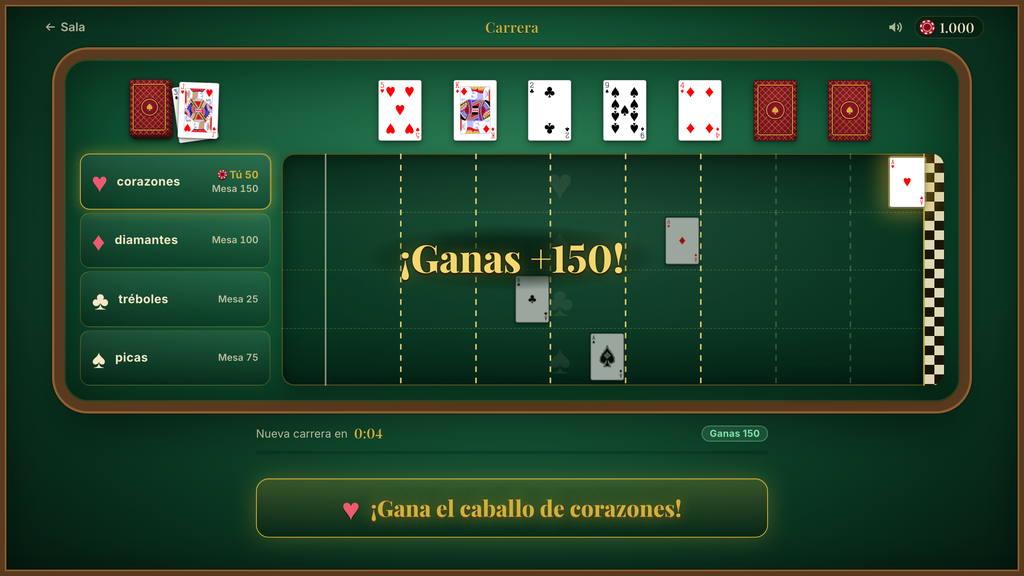
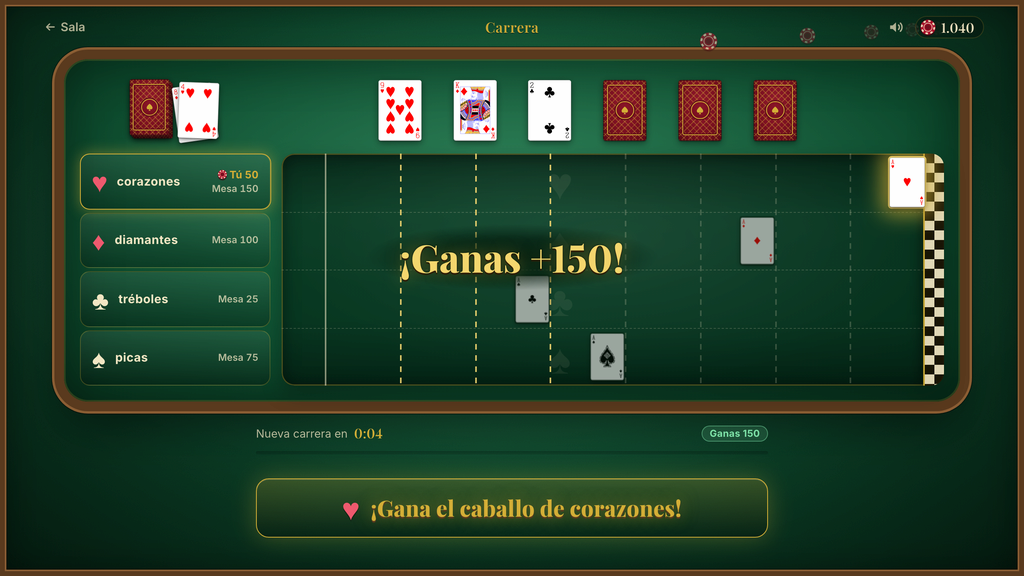
docs: el README y CLAUDE.md cuentan el blackjack completo y la carrera de seis tramos
Las capturas enseñan dos manos y, las de la carrera, los seis tramos. Los specs se alinean con lo construido y ESTADO.md cierra la
Tarea 10 y la revisión final.

diff --git a/README.md b/README.md
@@ -6,8 +6,8 @@ Una web para jugar a las cartas con amigos: **Blackjack** y una **carrera de cab
 
 <p align="center">
   <img src="docs/capturas/sala-movil.png" alt="La sala de una partida en el móvil: quién hay, las dos mesas y el ranking de esta noche" width="23%">
-  <img src="docs/capturas/blackjack-movil.png" alt="Mesa de blackjack en el móvil, a mitad de ronda" width="23%">
-  <img src="docs/capturas/carrera-movil.png" alt="Mesa de la carrera de caballos en el móvil, a mitad de carrera" width="23%">
+  <img src="docs/capturas/blackjack-movil.png" alt="Mesa de blackjack en el móvil: tus dos manos, la primera activa, con los botones Dividir y Rendirse" width="23%">
+  <img src="docs/capturas/carrera-movil.png" alt="Mesa de la carrera de caballos en el móvil, a mitad de carrera, con los seis tramos de la pista" width="23%">
   <img src="docs/capturas/carrera-ganador-movil.png" alt="El caballo de corazones gana la carrera y el jugador cobra" width="23%">
 </p>
 
@@ -15,25 +15,33 @@ Una web para jugar a las cartas con amigos: **Blackjack** y una **carrera de cab
 
 1. **Entra** con un apodo y un PIN de 4 cifras. Si el apodo no existe, la web pregunta «¿Crear el perfil?» y, al aceptar, te da **1.000 fichas**.
 2. **Crea una partida** (te da un código de 4 caracteres, un QR y un enlace) o **únete** con el de un amigo.
-3. En la **sala** ves quién está conectado, qué hay en cada mesa y quién va ganando esta noche. Entra en la mesa que quieras y vuelve cuando quieras: la conexión con la sala se mantiene abierta mientras juegas (cada mesa abre además la suya). Ojo: salir de una mesa a propósito con una apuesta en juego la pierde.
-4. **Blackjack.** Seis barajas, hasta 6 jugadores. Apuestas durante 15 s (desde 10 fichas y sin tope: con «Todo» te lo juegas todo), cada uno recibe dos cartas y decides en 15 s: *Pedir*, *Plantarse* o *Doblar*. La banca pide hasta 17 y se planta en cualquier 17 o más. Ganar paga 1:1, blackjack natural 3:2 y un empate devuelve la apuesta.
-5. **Carrera de caballos.** Los cuatro ases son los caballos. Apuesta durante 20 s a uno o a varios (desde 10 fichas, sin tope por caballo, hasta 12 jugadores). Se levanta una carta cada 800 ms y avanza el caballo de su palo; cuando todos pasan un tramo de la pista se gira su carta y el caballo de ese palo retrocede. Gana el primero que llega a la meta y paga ×4 (apuesta incluida).
+3. En la **sala** ves quién está conectado, qué hay en cada mesa y quién va ganando esta noche. Entra en la mesa que quieras y vuelve cuando quieras: la conexión con la sala se mantiene abierta mientras juegas (cada mesa abre además la suya). Ojo: salir de una mesa a propósito con una apuesta en juego la pierde; en el blackjack, cuando se cierran las decisiones la ronda ya está decidida y cobras lo que te toque aunque te vayas.
+4. **Blackjack.** Seis barajas, hasta 6 jugadores y 7 casillas de apuesta. Apuestas durante 15 s (desde 10 fichas y sin tope: con «Todo» te lo juegas todo) y, si quedan casillas libres, puedes abrir una **segunda mano** con su propia apuesta. Cada mano recibe dos cartas y la ronda sigue así:
+   - **Seguro.** Si la banca enseña un as, tienes 10 s para asegurarte por la mitad de lo apostado. Si la banca tiene blackjack, el seguro paga 2:1.
+   - **La banca mira su carta** si enseña un as o una carta que vale 10. Con blackjack se acaba la ronda: tus blackjacks empatan y las demás manos pierden.
+   - **Decisiones.** Todos a la vez, en 15 s: *Pedir*, *Plantarse*, *Doblar*, *Dividir* o *Rendirse*. Si tienes varias manos, se juegan por orden.
+   - **Dividir.** Dos cartas del mismo valor (10, J, Q y K valen 10) se separan en dos manos por otra apuesta igual, y la ventana se alarga 10 s. Cada jugador llega como mucho a 4 manos; con dos casillas, cada una se divide una vez. Los ases se dividen una sola vez, reciben una carta cada uno y se plantan solos.
+   - **Rendirse.** Como primera decisión de una mano sin dividir: recuperas la mitad de la apuesta.
+   - **Banca y pagos.** La banca pide hasta 17 y se planta en cualquier 17 o más. Ganar paga 1:1, blackjack natural 3:2 (un 21 tras dividir paga 1:1) y un empate devuelve la apuesta.
+5. **Carrera de caballos.** Los cuatro ases son los caballos. Apuesta durante 20 s a uno o a varios (desde 10 fichas, sin tope por caballo, hasta 12 jugadores). Cada 800 ms sale una carta del mazo, se gira en el centro de la pista y avanza el caballo de su palo. La pista tiene 6 tramos con una carta boca abajo: cuando todos los caballos pasan un tramo se gira su carta y el caballo de ese palo retrocede. Gana el primero que llega a la meta y paga ×4 (apuesta incluida).
 6. Si te quedas **sin fichas**, el perfil te ofrece un **rescate** de 200 (cuenta como una quiebra en tus estadísticas).
 
 ## Características
 
-- **Dos juegos** con reglas completas, temporizadores y reconexión: si se corta la conexión o cierras la pestaña a mitad de ronda, al volver (dentro de esa misma ronda) sigues en tu mesa con tu mano. En blackjack, mientras estás desconectado tu mano se planta sola, y quien sigue desconectado cuando acaba la ronda deja la mesa.
+- **Dos juegos** con reglas completas, temporizadores y reconexión: si se corta la conexión o cierras la pestaña a mitad de ronda, al volver (dentro de esa misma ronda) sigues en tu mesa con tu mano. En blackjack, mientras estás desconectado tus manos se plantan solas (y, si se corta durante el seguro, no lo coges), y quien sigue desconectado cuando acaba la ronda deja la mesa.
+- **Blackjack de casino**: hasta dos casillas por jugador y cuatro manos dividiendo, seguro, la banca que mira su carta, doblar, dividir y rendirse. Tus manos se encogen para caber en fila también en un móvil de 360 px.
+- **Carrera de seis tramos**: la carta de cada paso se ve salir del mazo y girarse en el centro de la pista antes de que avance el caballo.
 - **Partidas con código, QR y enlace**; la sala se cierra sola tras 30 minutos sin nadie.
 - **Fichas globales**: cada jugador tiene su propio saldo, el mismo en todas las partidas y mesas.
 - **Ranking global** (fichas, ganancias, % de victorias, mayor premio, mejor racha y quiebras) y **ranking de cada noche**, además de un perfil con estadísticas por juego.
-- **Animaciones cuidadas** con Motion: reparto desde el mazo, cartas que se giran en 3D, caballos con estela, fichas que vuelan de la bandeja a tu casilla del tapete (donde tu apuesta se apila y se ve en grande) y del premio al contador. Los movimientos solo usan `transform` y `opacity` (las transiciones de color de botones y pestañas son aparte) y, con `prefers-reduced-motion`, pasan a fundidos.
+- **Animaciones cuidadas** con Motion: reparto desde el mazo, cartas que se giran en 3D, la carta que se desliza a su mano nueva al dividir, la banca que levanta un poco su carta para mirarla, caballos con estela, fichas que vuelan de la bandeja a tu casilla del tapete (donde tu apuesta se apila y se ve en grande) y del premio al contador. Los movimientos solo usan `transform` y `opacity` (las transiciones de color de botones y pestañas son aparte) y, con `prefers-reduced-motion`, pasan a fundidos.
 - **Sonido sintetizado** (cartas, fichas, victoria) con silencio recordado, y vibración corta al ganar donde el navegador la permita.
 - **Hecha para el móvil**: botones de al menos 44 px, tu mano grande abajo, y en un móvil tumbado las mesas piden girarlo en vez de ofrecer un tapete que obligue a desplazarse. En el ordenador, la mesa completa con los asientos en semicírculo.
 - **Coste 0 €**: solo el plan gratuito de Cloudflare, sin tarjeta.
 
 <p align="center">
   <img src="docs/capturas/sala-escritorio.png" alt="La sala en el ordenador: jugadores conectados, mesas y ranking de esta noche" width="31%">
-  <img src="docs/capturas/blackjack-escritorio.png" alt="Mesa de blackjack en el ordenador: cuatro jugadores en semicírculo frente a la banca" width="66%">
+  <img src="docs/capturas/blackjack-escritorio.png" alt="Mesa de blackjack en el ordenador: tus dos manos frente a la banca, con Ana, Leo y Marta en semicírculo" width="66%">
 </p>
 
 <p align="center">
@@ -41,10 +49,10 @@ Una web para jugar a las cartas con amigos: **Blackjack** y una **carrera de cab
   <img src="docs/capturas/carrera-ganador-escritorio.png" alt="Mesa de la carrera en el ordenador: gana el caballo de corazones y se cobra" width="48%">
 </p>
 
-Un paso de la carrera, fotograma a fotograma: sale un 8 de picas (el caballo avanza dejando estela), todos han pasado el tramo 2 y se gira su carta, un 7 de diamantes, así que el caballo de diamantes retrocede.
+Un paso de la carrera, fotograma a fotograma: sale un 8 de picas y se gira en el centro de la pista, su caballo avanza dejando estela, todos han pasado ya el tramo 2 y se gira su carta, un 7 de diamantes, así que el caballo de diamantes retrocede.
 
 <p align="center">
-  <img src="docs/capturas/carrera-paso.png" alt="Cuatro fotogramas de un paso de la carrera: avance de picas, giro del tramo y retroceso de diamantes" width="100%">
+  <img src="docs/capturas/carrera-paso.png" alt="Cuatro fotogramas de un paso de la carrera: la carta en el centro, avance de picas, giro del tramo y retroceso de diamantes" width="100%">
 </p>
 
 ## Arquitectura
@@ -87,8 +95,8 @@ flowchart TB
 
 - **El servidor manda, y cada jugador recibe su propia vista.** Las mesas guardan el estado verdadero y lo proyectan para cada conexión con `vista(estado, jugador)`: la baraja y la carta tapada de la banca no salen nunca del servidor. El cliente solo envía intenciones (`apostar`, `pedir`, `plantarse`…) y nunca decide un resultado. Además de la vista, cada mensaje trae los **eventos** ocurridos (`carta_repartida`, `caballo_avanza`, `pago`…) para que la pantalla los anime en orden y luego se asiente en la vista.
 - **Reglas puras y compartidas.** Blackjack y carrera son funciones `(estado, acción) → estado` en `src/shared/juegos`, sin red, sin reloj y sin azar propio: el tiempo y el generador entran como parámetros (el barajado usa siempre `crypto.getRandomValues`). Se prueban con Vitest en milisegundos y una clase base, `Mesa`, las conecta con PartyServer. Añadir un juego es escribir un archivo de reglas, una clase pequeña y su pantalla.
-- **Fichas en dos fases e idempotentes.** Antes de cobrar una apuesta la mesa guarda su intención; luego pide el cobro a `Jugadores` con una clave de idempotencia, y la intención se borra en la misma escritura que guarda la jugada. Un cobro que queda a medias (la instancia cayó, `Jugadores` no contestó) se anula con su clave, y cada ronda se liquida una sola vez por su identificador. Resultado: las fichas siempre cuadran, aunque las alarmas lleguen tarde o los mensajes se repitan.
-- **Pensada para los límites del plan gratuito.** Durable Objects con SQLite, WebSockets con hibernación y temporizadores con **alarmas** del objeto (nada de `setInterval`), de modo que una mesa vacía no consume. Cada cambio de una mesa es una sola escritura, la alarma solo se reprograma si cambia su hora y la sala solo se entera de lo que enseña. La carrera se sortea entera al cerrarse las apuestas: sus pasos los anuncia un temporizador en memoria, sin escribir nada, y la única alarma es la de la meta. Las fichas se leen de una sola fila, y el perfil y los rankings leen una fila por jugador, no el historial. Una mesa sin apuestas deja de programar alarmas tras tres ventanas, la sala se cierra a los 30 minutos sin conexiones, cada conexión tiene un tope de 20 mensajes por segundo (más de 60 y se cierra con el código 4008), el registro admite 3 perfiles cada 10 minutos por IP (60 por hora en total) y cada jugador crea como mucho 5 partidas por hora. Si una mesa no puede guardar una jugada, se lo dice al jugador en vez de quedarse congelada, y si el fallo se repite pasa a «La Timba está descansando, vuelve mañana».
+- **Fichas en dos fases e idempotentes.** Antes de cobrar una apuesta la mesa guarda su intención; luego pide el cobro a `Jugadores` con una clave de idempotencia, y la intención se borra en la misma escritura que guarda la jugada. Un cobro que queda a medias (la instancia cayó, `Jugadores` no contestó) se anula con su clave, y cada ronda se liquida una sola vez por su identificador, con una fila por jugador. Los cobros extra del blackjack (segunda casilla, doblar, dividir y seguro) siguen ese mismo camino. Resultado: las fichas siempre cuadran, aunque las alarmas lleguen tarde o los mensajes se repitan.
+- **Pensada para los límites del plan gratuito.** Durable Objects con SQLite, WebSockets con hibernación y temporizadores con **alarmas** del objeto (nada de `setInterval`), de modo que una mesa vacía no consume. Cada cambio de una mesa es una sola escritura, la alarma solo se reprograma si cambia su hora y la sala solo se entera de lo que enseña. La carrera se sortea entera al cerrarse las apuestas: sus pasos los anuncia un temporizador en memoria, sin escribir nada, y la única alarma es la de la meta. En el blackjack, la banca juega al cerrarse las decisiones y la ronda se liquida en esa misma escritura: lo que se ve después (la banca, el resultado y la ronda siguiente) también sale de la memoria. La sala guarda los resúmenes de las mesas solo en memoria y solo escribe cuando cambia el ranking. Las fichas se leen de una sola fila, y el perfil y los rankings leen una fila por jugador, no el historial. Una mesa sin apuestas deja de programar alarmas tras tres ventanas, la sala se cierra a los 30 minutos sin conexiones, cada conexión tiene un tope de 20 mensajes por segundo (más de 60 y se cierra con el código 4008), tras un `sin_fichas` las jugadas de pago de ese jugador se rechazan 2 s sin escribir nada, el registro admite 3 perfiles cada 10 minutos por IP (60 por hora en total) y cada jugador crea como mucho 5 partidas por hora. Si una mesa no puede guardar una jugada, se lo dice al jugador en vez de quedarse congelada, y si el fallo se repite pasa a «La Timba está descansando, vuelve mañana».
 - **PBKDF2 con 10.000 iteraciones.** El PIN se guarda con PBKDF2-SHA256 y sal de 16 bytes. Con 100.000 iteraciones una sola invocación supera los 10 ms de CPU del plan gratuito (error 1102), así que se usan 10.000 y se compensa por otro lado: 5 fallos bloquean el apodo 15 minutos. La sesión es un token HMAC-SHA256 firmado con `TOKEN_SECRET` que caduca a los 30 días.
 - **Fluidez medida.** Los movimientos solo usan `transform` y `opacity`. Se perfilaron carreras simuladas completas con la CPU a un cuarto de velocidad (CDP y `PerformanceObserver`, cada pasada con un servidor recién arrancado): en las últimas 11 no apareció ninguna tarea larga; antes solo hubo alguna suelta (la última, de 77 ms, justo al salir el cartel del ganador), lo que llevó a pedir su tipografía al abrir la mesa y no al ganar. A un sexto de velocidad sí se vieron cuadros de 51–64 ms al llegar el ganador. Los e2e comprueban además que con movimiento reducido las cartas aparecen ya en su sitio y que la mesa no se mueve bajo la mano.
 
@@ -142,7 +150,7 @@ La segunda línea genera un secreto fuerte y lo guarda directamente, sin copiar 
 
 `npm run deploy` construye el cliente y el Worker (`vite build`) y los sube con `wrangler deploy`. La configuración está en [`wrangler.jsonc`](wrangler.jsonc): los cuatro Durable Objects con su migración `new_sqlite_classes` y la web como recursos estáticos con *fallback* de aplicación de una sola página, de modo que `/p/KXP4` abre la partida también al recargar. La URL queda como `https://la-timba.<tu-cuenta>.workers.dev`.
 
-Lo que gasta una noche típica (8 jugadores durante 3 horas: unas 330 rondas de blackjack y 240 carreras) se mide en [`test/server/presupuesto.test.ts`](test/server/presupuesto.test.ts), que juega rondas de verdad contra los Durable Objects y cuenta lo que factura Cloudflare. Extrapolado a la noche: unas 27.300 filas escritas (27 % del límite diario gratuito de 100.000), 14.600 peticiones a Durable Objects (15 %), 7.300 peticiones al Worker (7 %) y 23.000 filas leídas (0,5 % de 5 millones), por debajo del objetivo de no pasar del 30 % de ningún límite. Dicho en horas: lo que se agota antes son las filas escritas, y caben unas **11 horas de juego al día con 8 jugadores** (4 en cada mesa). La mayoría de esas escrituras son del libro de fichas (cinco por apuesta: la intención y la jugada en la mesa, el cobro, las fichas y su liquidación). Es una estimación: lo que cuenta es el panel de Cloudflare después de una noche real.
+Lo que gasta una noche típica (8 jugadores durante 3 horas: unas 330 rondas de blackjack y 240 carreras) se mide en [`test/server/presupuesto.test.ts`](test/server/presupuesto.test.ts), que juega rondas de verdad contra los Durable Objects y cuenta lo que factura Cloudflare. La medida es pesimista: una de cada tres rondas de blackjack lleva dos casillas, seguro y división. Extrapolado a la noche: unas 27.200 filas escritas (27 % del límite diario gratuito de 100.000), 14.700 peticiones a Durable Objects (15 %), 7.700 peticiones al Worker (8 %) y 22.000 filas leídas (0,4 % de 5 millones), por debajo del objetivo de no pasar del 30 % de ningún límite. Dicho en horas: lo que se agota antes son las filas escritas, y caben unas **11 horas de juego al día con 8 jugadores** (4 en cada mesa). Algo más de la mitad de esas escrituras son del libro de fichas: cada apuesta cuesta cinco (la intención y la jugada en la mesa, el cobro, las fichas y su liquidación). Es una estimación: lo que cuenta es el panel de Cloudflare después de una noche real.
 
 ## Estructura
 

diff --git a/CLAUDE.md b/CLAUDE.md
@@ -11,6 +11,8 @@ La Timba es una web gratuita para jugar a las cartas con amigos. Alguien crea un
 - **Documentos:**
   - Spec (manda sobre el plan y sobre el código): `docs/superpowers/specs/2026-10-17-la-timba-design.md`
   - Plan original: `docs/superpowers/plans/2026-10-17-la-timba.md`
+  - Spec del blackjack completo y de la carrera de seis tramos (amplía el anterior y, si chocan, manda): `docs/superpowers/specs/2026-10-29-blackjack-completo-design.md`, con su plan en `docs/superpowers/plans/2026-10-29-blackjack-completo.md`
+  - Estado del desarrollo (qué queda y qué viene después): `docs/ESTADO.md`
   - README de portfolio: `README.md`
 
 ## Comandos
@@ -71,7 +73,15 @@ npm run deploy                   # build + wrangler deploy (lo hace el usuario)
 - El tiempo y el azar entran como parámetros.
 - `vista(estado, jugador, ahora)` es lo único que sale del servidor. Nunca incluye información oculta: la baraja, la carta tapada de la banca o los pasos futuros de la carrera.
 - La carrera se sortea entera al cerrar las apuestas. Sus pasos los anuncia un temporizador en memoria (`proximoAviso`/`eventosEntre`), sin escrituras.
+- La carrera tiene 6 tramos (`CARRERA.TRAMOS`), en las líneas 1 a 6. La línea 7 se dibuja sin carta: un tramo se gira cuando todos lo han pasado y llegar a la casilla 8 termina la carrera, así que un séptimo casi nunca podría girarse.
 - En el blackjack, la banca juega al cerrarse las decisiones y la ronda queda liquidada en esa escritura (fase `resultado`). La vista enseña la banca durante `BANCA_MS`, después el resultado y, al acabar, la ronda siguiente, todo desde memoria. En la banca, `resumen` devuelve `null` y la sala no se entera.
+- **Casillas y manos del blackjack:**
+  - Hay `BJ.CASILLAS` (7) casillas para `BJ.MAX_JUGADORES` (6) jugadores. Cada jugador ocupa una y puede pedir una segunda (`{ t: "apostar", segunda: true }`); si no queda ninguna, `sin_casilla`. Una mano abandonada ocupa su casilla hasta el fin de la ronda.
+  - `manos` es una lista plana con `casilla` e `indice`, en ese orden. Cada jugador llega como mucho a `BJ.MAX_MANOS_JUGADOR` (4) contando las divisiones.
+  - `pedir`, `plantarse`, `doblar`, `dividir` y `rendirse` actúan sobre `manoActiva(e, jugadorId)`, la primera que sigue jugando.
+  - La liquidación es de una fila por jugador: `apuesta` y `pago` suman sus manos y su seguro.
+  - `opciones` (de `opcionesDe`) dice a quien recibe la vista qué le permiten las reglas, y el cliente no las repite. El reductor no conoce las fichas: la pantalla oculta lo que no te llega y `Jugadores` lo rechaza con `sin_fichas`. `opciones.seguro` es el coste (`null` si no toca), no un booleano.
+  - El ritmo del reparto y de la mirada de la banca (`BJ.ESCALONADO_MS`, `BJ.VUELO_MS`, `BJ.MIRA_MS`) vive en las reglas y el cliente lo lee de ahí, porque el servidor retrasa la banca lo que la pantalla tarda en enseñarlo (`esperaDeLaMirada`). Si cambias esos tiempos, cambian los dos lados.
 
 ### Cliente (`src/client/`)
 
@@ -82,8 +92,14 @@ npm run deploy                   # build + wrangler deploy (lo hace el usuario)
   - `useMesa` y `usePartida`: los sockets con partysocket. Cada mensaje trae `ahora` del servidor y `reloj.ts` corrige el desfase para las cuentas atrás.
   - `useEnvioUnico`: evita el doble envío, atado a la respuesta a *tu* acción.
 - **Pantallas de mesa:** convierten «vista + eventos» en un guion animado. Siempre acaban en la última vista, y al reconectar saltan a ella sin animar ni sonar.
-  - Blackjack: `pantallas/blackjack/guion.ts` y `useGuion` (repartos desde el `Mazo`).
-  - Carrera: `pantallas/carrera/escena.ts` (`planDeLote`, puro), `cola.ts` (una cola ordenada con un solo temporizador) y `useEscena`.
+  - Blackjack (en `pantallas/blackjack/`):
+    - `guion.ts` y `useGuion`: repartos desde el `Mazo`, la mirada de la banca y las divisiones. Cada carta se identifica con `claveCarta(ronda, de, mano, indice)`.
+    - `manos.ts` (puro): la mano activa, el tamaño de las cartas para que tus manos quepan en fila, su sitio en el arco del ordenador y la agrupación de los demás jugadores.
+    - `asientos.tsx`: tus manos (`MisManos`), los asientos de los demás en el ordenador (`AsientoOtro`) y sus pastillas en el móvil (`PastillaOtro`).
+    - `useDeslizar.ts`: al dividir, las cartas se deslizan a su sitio nuevo sin desaparecer en ningún fotograma.
+    - `useEspacio.ts`: mide el hueco real entre los vecinos. Si tus manos no caben ahí, se colocan al fondo del tapete.
+    - `controles.tsx`: los paneles `Apostar`, `Decidir` y `PanelSeguro`, y `textoEstado`.
+  - Carrera: `pantallas/carrera/escena.ts` (`planDeLote`, puro; la carta de cada paso sale `REVELADO_MS` antes de que avance el caballo), `cola.ts` (una cola ordenada con un solo temporizador) y `useEscena`.
 - **Piezas de mesa compartidas** en `componentes/` y `efectos/`:
   - `FichasApuesta` (bandeja con «Todo») y `CasillaApuesta` (la pila en el tapete);
   - `CartelPremio`, `EstadoMesa`, `AvisoMesa`, `FichasVolando`, `BarraMesa` y `SinMesa`;
@@ -106,7 +122,7 @@ npm run deploy                   # build + wrangler deploy (lo hace el usuario)
   - Las lecturas de fichas, perfil y ranking son de coste constante, no recorren el historial.
 - **El libro de fichas tiene que cuadrar siempre**, también con reconexiones, desalojos, reintentos de alarmas y varias pestañas. No muevas fichas fuera de `Jugadores` ni te saltes el cobro en dos fases.
 - **El servidor manda:** el cliente solo envía intenciones. La reconexión a mitad de una ronda tiene que funcionar.
-- **Apuestas:** sin tope; desde 10 fichas hasta todas las tuyas.
+- **Apuestas:** sin tope; desde 10 fichas hasta todas las tuyas. En el blackjack, cada casilla lleva su apuesta, y la segunda casilla, doblar, dividir y el seguro se cobran cada uno con su cobro en dos fases.
 
 ## E2E: mesas simuladas
 

diff --git a/docs/ESTADO.md b/docs/ESTADO.md
@@ -20,8 +20,9 @@ Notas para retomar el trabajo en local. Última actualización: 30/10/2026.
 | 7 | Pantalla: apostar con dos manos | hecha y revisada |
 | 8 | Pantalla: varias manos, dividir y rendirse | hecha y revisada |
 | 9 | Pantalla: seguro y la banca mira | hecha y revisada |
-| 10 | README, CLAUDE.md y capturas | **pendiente** |
-| — | Revisión final de toda la rama y PR a `main` | **pendiente** |
+| 10 | README, CLAUDE.md y capturas | hecha |
+| — | Revisión final de toda la rama | hecha |
+| — | PR a `main` | **pendiente** |
 
 ## Cómo seguir en local
 
@@ -39,13 +40,9 @@ npm run e2e                           # sin otro `npm run dev` abierto
 
 ## Lo que falta del plan
 
-1. **Tarea 10** (ver el plan), y además:
-   - el spec viejo (2026-10-17) dice «Pista: 7 tramos» y ahora son 6;
-   - en el spec nuevo §5.1, «+ Segunda mano» aparece antes de apostar solo si hay **2 o más** casillas libres (ver decisiones);
-   - `CLAUDE.md` debe mencionar `manos.ts`, `useDeslizar.ts`, `asientos.tsx`, `claveCarta(ronda, de, mano, indice)` y las constantes de tiempo compartidas en `BJ`;
-   - capturas nuevas para el README.
-2. **Revisión final de toda la rama** (`main..feat/la-timba-v1-830fa7`), que decide cuáles de los detalles menores de abajo hay que arreglar antes de fusionar.
-3. Abrir el PR a `main`.
+Abrir el PR a `main`. La revisión final no encontró nada que impida fusionar: se leyeron enteros los cambios de reglas y servidor, y el guion y la mesa de blackjack en el cliente, con los cinco puntos de «Review Focus» del plan. La hizo la misma sesión que cerró la Tarea 10, así que una revisión independiente aún podría encontrar algo.
+
+Con el código de la rama, en un Mac: tipos correctos, 689 tests y 296 e2e en verde (20 se saltan por ser solo de un dispositivo).
 
 ## Decisiones que tomé por mi cuenta (revísalas)
 
@@ -65,7 +62,14 @@ Decisiones tuyas en esta sesión:
 - El objetivo de presupuesto sigue en el 30 %, sin más optimizaciones.
 - Tras un `sin_fichas`, la mesa rechaza en memoria durante 2 s las jugadas de pago de ese jugador. Así se evita que un cliente trucado agote las escrituras del día. *Coste: un jugador real con el saldo desfasado puede ver «No tienes fichas» otra vez durante esos 2 s.*
 
-## Detalles menores apuntados para la revisión final
+Decisiones de la Tarea 10, ya en local:
+
+- También se rehicieron las capturas de la carrera, aunque el plan solo pedía las del blackjack: aún enseñaban 7 tramos.
+- El spec nuevo se alineó con lo construido donde las decisiones de arriba lo cambiaban: sin campo `rendida`, `opciones.seguro` es el coste, la pantalla comprueba las fichas y «+ Segunda mano» pide 2 casillas libres.
+
+## Detalles menores que la revisión final deja para después
+
+Ninguno bloquea la fusión.
 
 **Reglas y servidor**
 
@@ -105,7 +109,7 @@ Decisiones tuyas en esta sesión:
   - estaría bien avisar «Te desconectaste: sin seguro» al reconectar;
   - los botones de decisión están activos durante la mirada de 0,7 s;
   - una anotación del e2e de 3 navegadores es engañosa;
-  - `useEnvioUnico` se queda esperando si llega el mismo error dos veces en menos de `ERROR_MS` (ya pasaba antes).
+  - `useEnvioUnico` solo se quedaría esperando si llegaran dos errores iguales a un mismo envío: un segundo toque no lo bloquea, porque `enviar` limpia el error (se comprobó con tres `sin_fichas` seguidos).
 - Carrera:
   - `PASO_COMPRIMIDO_MS` está sin uso;
   - un título de e2e es exagerado;

diff --git a/docs/superpowers/specs/2026-10-29-blackjack-completo-design.md b/docs/superpowers/specs/2026-10-29-blackjack-completo-design.md
@@ -86,8 +86,7 @@ Fuera de alcance: el póker y la Bomba (cada uno tendrá su propio diseño), las
   - `casilla: number` (0–6);
   - `indice: number` (orden dentro del jugador);
   - `dividida: boolean`;
-  - `rendida: boolean`;
-  - `estado` gana `"rendido"`.
+  - `estado` gana `"rendido"`, que es lo que dice que una mano se ha rendido.
 - Al dividir, la mano nueva se inserta justo después de la que se divide.
 - `EstadoBJ` añade:
   - `fase: "seguro"`;
@@ -112,9 +111,9 @@ Fuera de alcance: el póker y la Bomba (cada uno tendrá su propio diseño), las
 
 ### 4.3 Vista y eventos
 
-- La vista de cada mano añade `casilla`, `indice`, `dividida` y `rendida`.
+- La vista de cada mano añade `casilla`, `indice` y `dividida`.
 - La vista añade, solo para quien la recibe:
-  - `opciones: { pedir; plantarse; doblar; dividir; rendirse; seguro }` (booleanos que calcula el servidor; el cliente no repite reglas);
+  - `opciones: { pedir; plantarse; doblar; dividir; rendirse; seguro }`, que calcula el servidor con las reglas, así que el cliente no las repite. Son booleanos, salvo `seguro`, que es lo que cuesta asegurarse (`null` si no toca);
   - `miSeguro`;
   - `casillasLibres`.
 - La carta tapada de la banca sigue sin salir del servidor hasta que se gira.
@@ -134,7 +133,7 @@ Fuera de alcance: el póker y la Bomba (cada uno tendrá su propio diseño), las
 ### 5.1 Apuestas
 
 - **Segunda mano:**
-  - Junto a tu casilla aparece «+ Segunda mano» si `casillasLibres > 0`.
+  - Antes de apostar la primera, junto a tu casilla aparece «+ Segunda mano» si hay 2 o más casillas libres: con una sola, la segunda daría `sin_casilla` seguro.
   - Al tocarla aparece otra casilla.
   - Tocando una casilla la eliges (aro dorado). Las fichas y «Todo» van a la elegida; «Todo» reparte lo que te queda en ella.
 - **Botón de apostar:** «Apostar 100 + 50». Manda las dos apuestas, cada una con su `cobroId` y su respuesta.
@@ -174,7 +173,7 @@ Fuera de alcance: el póker y la Bomba (cada uno tendrá su propio diseño), las
 
 ## 6. Casos límite
 
-- **Fichas insuficientes:** no se ofrece dividir, doblar ni seguro (el servidor lo calcula en `opciones` y `Jugadores` lo vuelve a comprobar al cobrar).
+- **Fichas insuficientes:** no se ofrece dividir, doblar ni seguro. `opciones` solo sabe de reglas, porque el reductor no conoce las fichas: es la pantalla la que comprueba si te llegan, y `Jugadores` lo vuelve a comprobar al cobrar.
 - **Concurrencia:**
   - Dos pestañas del mismo jugador: la cola de la mesa ordena y la segunda acción recibe error sin cobro.
   - La última casilla pedida a la vez por dos jugadores: `sin_casilla` para el segundo, sin cobro.

diff --git a/docs/superpowers/specs/2026-10-17-la-timba-design.md b/docs/superpowers/specs/2026-10-17-la-timba-design.md
@@ -163,12 +163,12 @@ Mesa → cliente:
 
 ### 6.2 Carrera de caballos
 - Hasta 12 jugadores por mesa.
-- Caballos: los 4 ases. Pista: 7 tramos, cada uno con una carta boca abajo sacada al inicio.
+- Caballos: los 4 ases. Pista: 6 tramos, cada uno con una carta boca abajo sacada al inicio (en las líneas 1 a 6; la línea 7 no lleva carta).
 - **Apuestas**: 20 s; a uno o varios caballos; mínimo 10 y sin máximo por caballo: hasta todas tus fichas («Todo»).
 - **Carrera**: se levanta una carta del mazo cada ~0,8 s; avanza 1 casilla el caballo de su palo.
 - Cuando todos los caballos han superado un tramo, se gira la carta de ese tramo y el caballo de su palo retrocede 1 casilla.
 - Si el mazo se agota, se rebaraja el descarte.
-- Gana el primero en pasar el tramo 7. Pago fijo ×4 (apuesta incluida).
+- Gana el primero en llegar a la meta (la casilla 8, pasada la línea 7). Pago fijo ×4 (apuesta incluida).
 
 ### 6.3 Común
 - Salir a propósito con apuesta en juego → se pierde.
